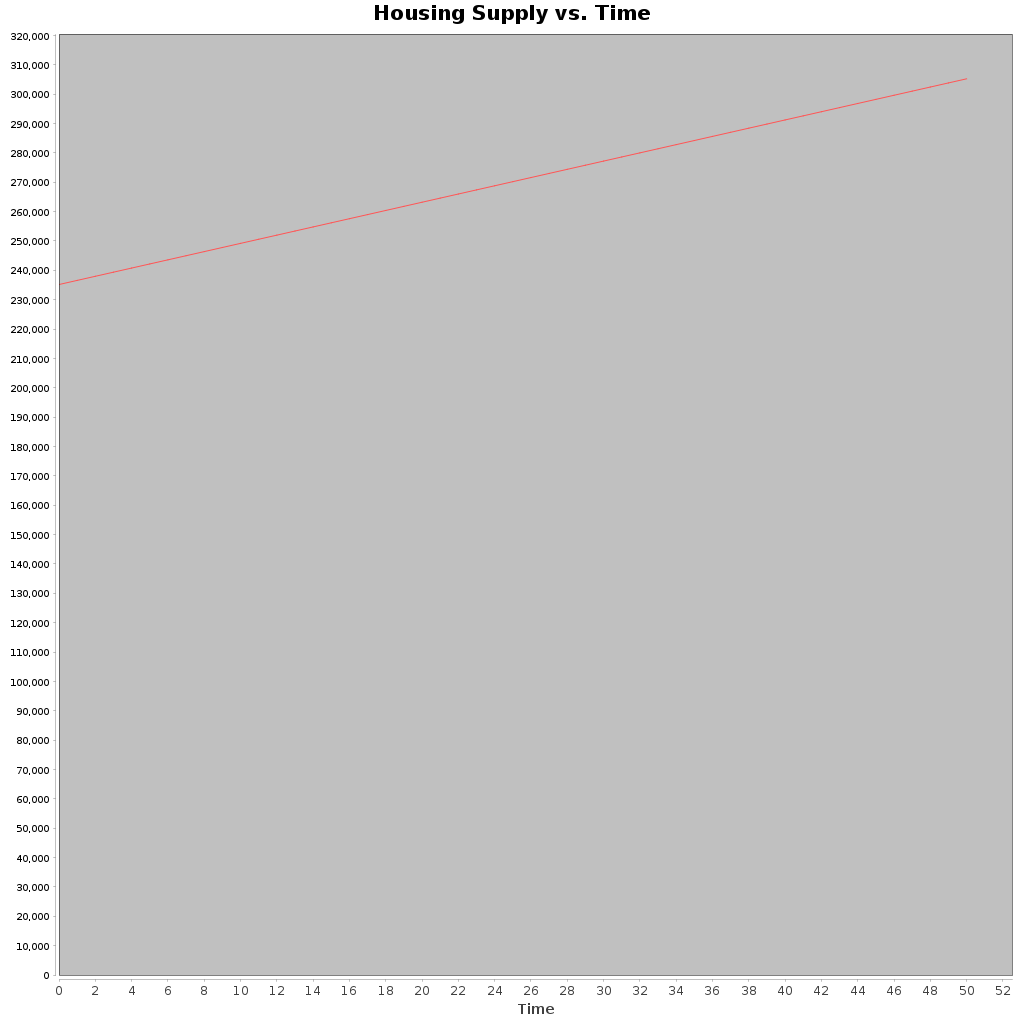
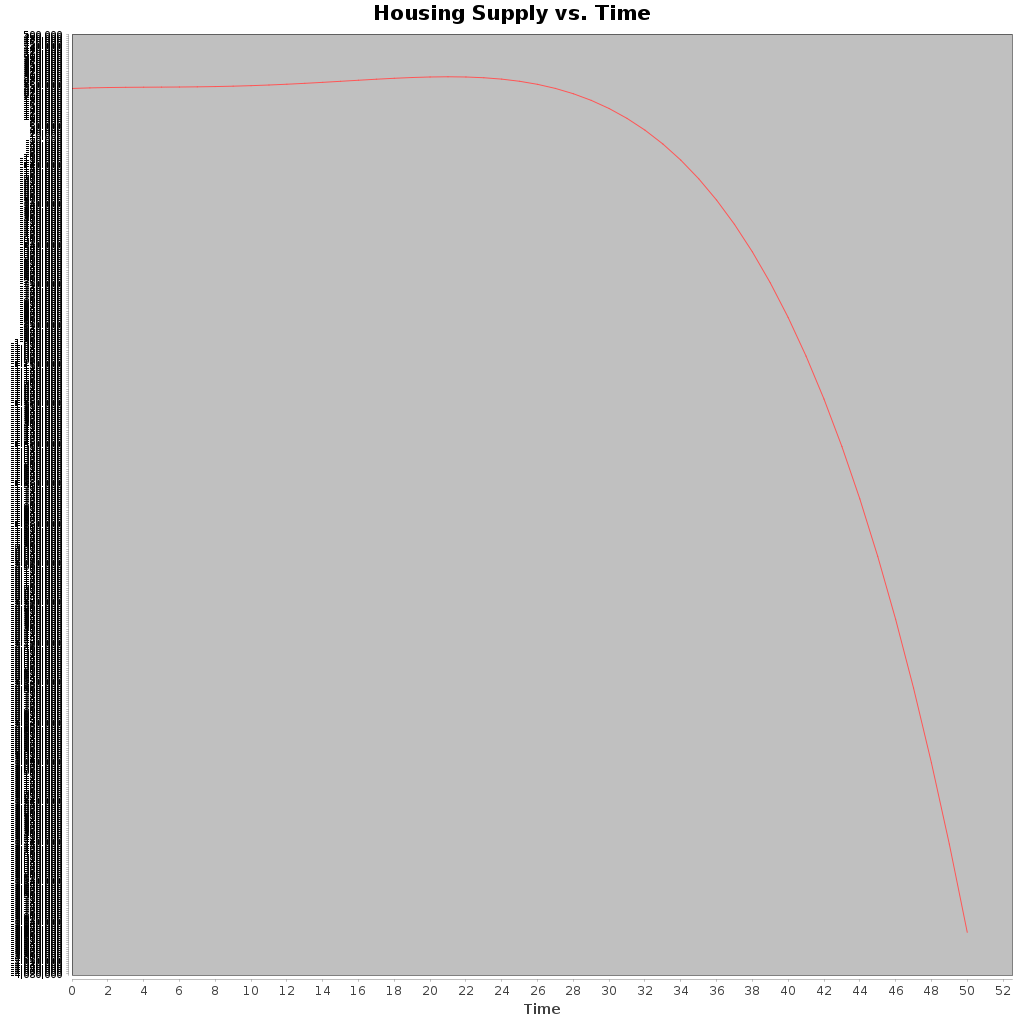
for ryan

Changed region(s): [[0.0, 0.0312, 0.0938, 0.9688], [0.5, 0.9688, 0.5625, 1.0], [0.625, 0.125, 0.6562, 0.1562]]

diff --git a/src/main/java/MainChallenge/Main.java b/src/main/java/MainChallenge/Main.java
@@ -86,11 +86,27 @@ public class Main {
                 1728
 
         };
+        double[] timeQuarted = new double[] {
+                0,
+                1,
+                16,
+                81,
+                256,
+                625,
+                1296,
+                2401,
+                4096,
+                6561,
+                10000,
+                14641,
+                20736
+        };
         double[][] timeLongs = new double[][] {
                 timeZero,
-                time
-//                timeSquared,
-//                timeCubed
+                time,
+                timeSquared,
+                timeCubed,
+                timeQuarted
         };
         Matrix transposedMatrix = new Matrix(timeLongs);
         Matrix UnTransposedMatrix = transposedMatrix.transpose();
@@ -176,6 +192,11 @@ public class Main {
         double[] weightArray = weights.getColumnPackedCopy();
 
         Polynomial polynomial = new Polynomial(weightArray);
+        System.out.println();
+        for(int i = 0; i < weightArray.length; i++) {
+            System.out.println(weightArray[i]);
+        }
+        System.out.println();
         return polynomial.evaluate(x);
     }
 
